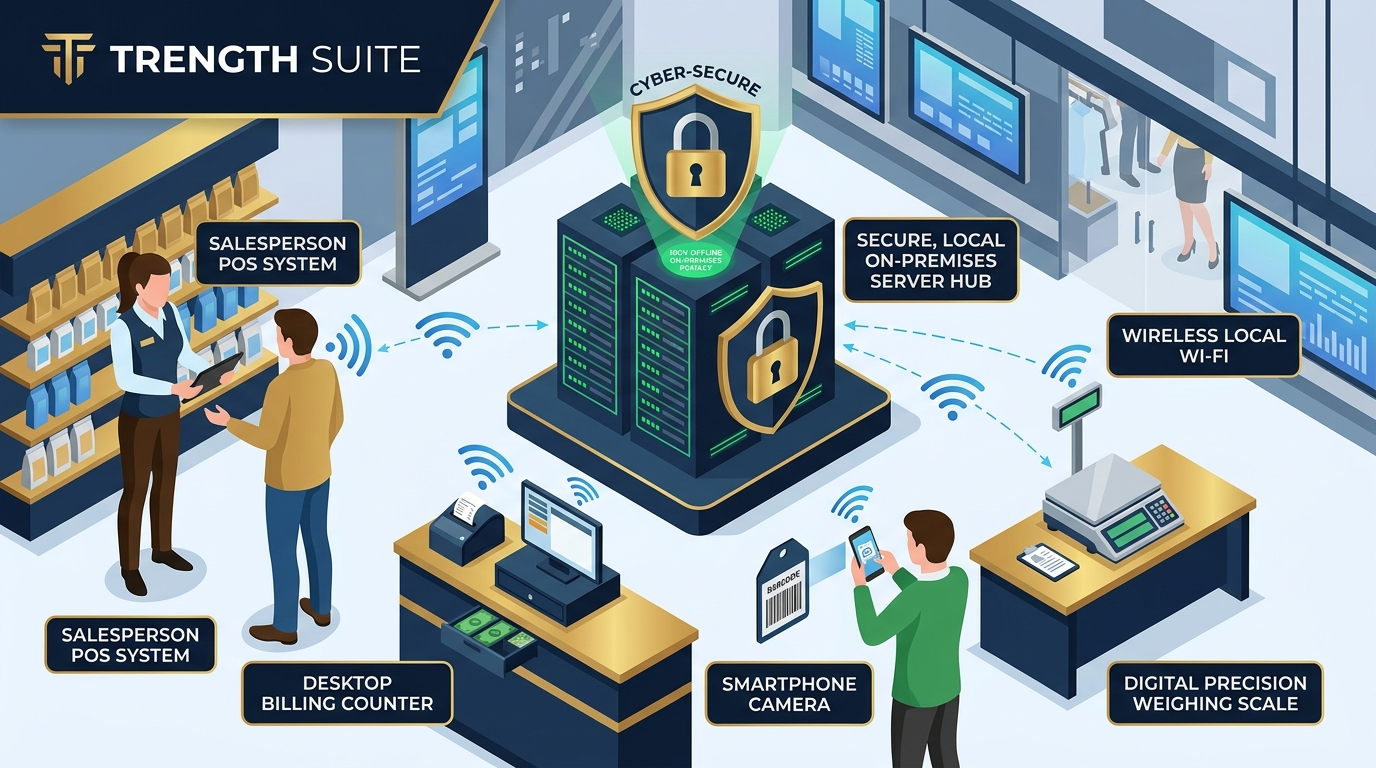
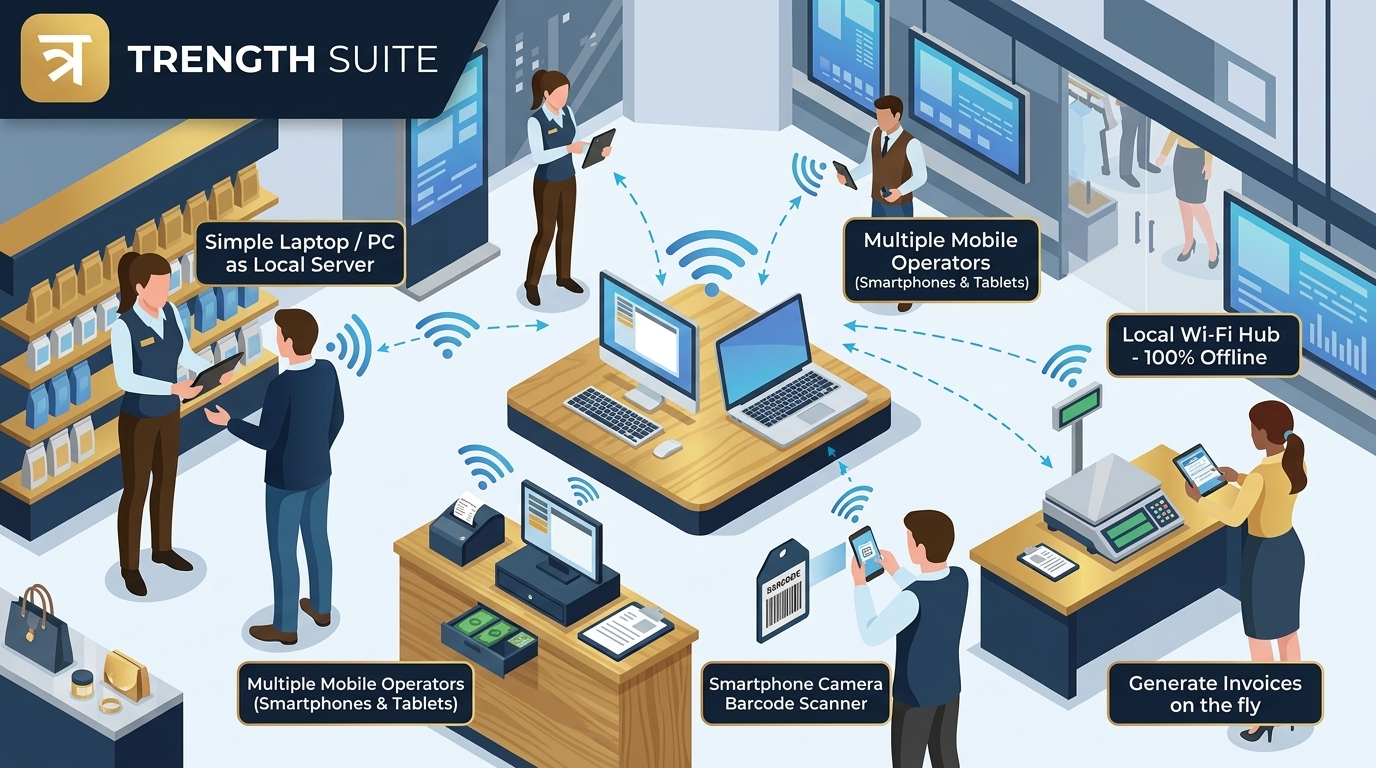
Hello

diff --git a/assets/css/custom.css b/assets/css/custom.css
@@ -1,0 +1,118 @@
+/* ==========================================================================
+   Trength Suite Documentation - Custom Typography & Mobile Enhancements
+   ========================================================================== */
+
+/* Crisp font smoothing */
+body {
+    -webkit-font-smoothing: antialiased;
+    -moz-osx-font-smoothing: grayscale;
+    text-rendering: optimizeLegibility;
+}
+
+/* Enhanced contrast for body text and descriptions */
+.text-gray-600 {
+    color: #4B5675 !important;
+}
+
+.text-gray-700 {
+    color: #252F4A !important;
+}
+
+.text-muted {
+    color: #5E6278 !important;
+}
+
+/* Ensure strong heading contrast */
+h1, h2, h3, h4, h5, h6,
+.text-gray-800, .text-gray-900 {
+    color: #181C32 !important;
+}
+
+/* Mobile Aside Toggle (Hamburger Menu) High Visibility */
+#kt_docs_aside_toggle {
+    color: #181C32 !important;
+    background-color: #F5F8FA;
+    border: 1px solid #E4E6EF;
+    border-radius: 0.475rem;
+    display: inline-flex;
+    align-items: center;
+    justify-content: center;
+    width: 40px;
+    height: 40px;
+}
+
+#kt_docs_aside_toggle .svg-icon {
+    color: #181C32 !important;
+}
+
+#kt_docs_aside_toggle .svg-icon svg path {
+    fill: #181C32 !important;
+    opacity: 1 !important;
+}
+
+/* Aside menu section headings */
+.menu-content.text-muted {
+    color: #5E6278 !important;
+    font-weight: 700 !important;
+    letter-spacing: 0.05em;
+}
+
+/* Menu links high contrast */
+.menu-state-title-primary .menu-item .menu-link .menu-title {
+    color: #252F4A;
+    font-weight: 500;
+}
+
+.menu-state-title-primary .menu-item .menu-link.active .menu-title {
+    color: #009EF7 !important;
+    font-weight: 600;
+}
+
+/* Improved contrast for badges */
+.badge.badge-light-primary {
+    color: #0077B6 !important;
+    background-color: #EBF8FF !important;
+    font-weight: 700 !important;
+}
+
+.badge.badge-light-success {
+    color: #1B8A5A !important;
+    background-color: #E8F8F0 !important;
+    font-weight: 700 !important;
+}
+
+.badge.badge-light-warning {
+    color: #C05621 !important;
+    background-color: #FEF7ED !important;
+    font-weight: 700 !important;
+}
+
+.badge.badge-light-danger {
+    color: #C53030 !important;
+    background-color: #FFF5F5 !important;
+    font-weight: 700 !important;
+}
+
+.badge.badge-light-info {
+    color: #007E8A !important;
+    background-color: #E6F7FA !important;
+    font-weight: 700 !important;
+}
+
+.badge.badge-light-dark {
+    color: #181C32 !important;
+    background-color: #F1F1F4 !important;
+    font-weight: 700 !important;
+}
+
+/* Mobile responsive adjustments */
+@media (max-width: 991.98px) {
+    .docs-aside {
+        background-color: #FFFFFF !important;
+        box-shadow: 0 0 50px 0 rgba(24, 28, 50, 0.15);
+    }
+    
+    .card .card-body {
+        padding: 1.25rem;
+    }
+}

diff --git a/index.html b/index.html
@@ -4,10 +4,11 @@
     <!-- <base href="../"> -->
     <title>Trength™ Suite | Retail ERP &amp; POS Documentation</title>
     <meta charset="utf-8" />
+    <meta name="viewport" content="width=device-width, initial-scale=1" />
     <meta name="description" content="Official documentation for Trength Suite - High-speed enterprise retail ERP and POS solutions for Jewellery, Mobile, Clothing, and Electronics retail businesses." />
     <link rel="shortcut icon" href="assets/media/logos/favicon.ico" />
     <!--begin::Fonts-->
-    <link rel="stylesheet" href="https://fonts.googleapis.com/css?family=Poppins:300,400,500,600,700" />
+    <link rel="stylesheet" href="https://fonts.googleapis.com/css2?family=Poppins:wght@300;400;500;600;700&display=swap" />
     <!--end::Fonts-->
     <!--begin::Page Vendor Stylesheets(used by this page)-->
     <link href="assets/plugins/custom/prismjs/prismjs.bundle.css" rel="stylesheet" type="text/css" />
@@ -15,6 +16,7 @@
     <!--begin::Global Stylesheets Bundle(used by all pages)-->
     <link href="assets/plugins/global/plugins.bundle.css" rel="stylesheet" type="text/css" />
     <link href="assets/css/style.bundle.css" rel="stylesheet" type="text/css" />
+    <link href="assets/css/custom.css" rel="stylesheet" type="text/css" />
     <!--end::Global Stylesheets Bundle-->
 </head>
 <!--end::Head-->

diff --git a/CommandCentre.html b/CommandCentre.html
@@ -5,9 +5,10 @@
     <!-- <base href="../"> -->
     <title>Trength | Documentation</title>
     <meta charset="utf-8" />
+    <meta name="viewport" content="width=device-width, initial-scale=1" />
     <link rel="shortcut icon" href="assets/media/logos/favicon.ico" />
     <!--begin::Fonts-->
-    <link rel="stylesheet" href="https://fonts.googleapis.com/css?family=Poppins:300,400,500,600,700" />
+    <link rel="stylesheet" href="https://fonts.googleapis.com/css2?family=Poppins:wght@300;400;500;600;700&display=swap" />
     <!--end::Fonts-->
     <!--begin::Page Vendor Stylesheets(used by this page)-->
     <link href="assets/plugins/custom/prismjs/prismjs.bundle.css" rel="stylesheet" type="text/css" />
@@ -15,6 +16,7 @@
     <!--begin::Global Stylesheets Bundle(used by all pages)-->
     <link href="assets/plugins/global/plugins.bundle.css" rel="stylesheet" type="text/css" />
     <link href="assets/css/style.bundle.css" rel="stylesheet" type="text/css" />
+    <link href="assets/css/custom.css" rel="stylesheet" type="text/css" />
     <!--end::Global Stylesheets Bundle-->
 </head>
 <!--end::Head-->

diff --git a/InstallationGuide.html b/InstallationGuide.html
@@ -5,9 +5,10 @@
     <!-- <base href="../"> -->
     <title>Trength | Documentation</title>
     <meta charset="utf-8" />
+    <meta name="viewport" content="width=device-width, initial-scale=1" />
     <link rel="shortcut icon" href="assets/media/logos/favicon.ico" />
     <!--begin::Fonts-->
-    <link rel="stylesheet" href="https://fonts.googleapis.com/css?family=Poppins:300,400,500,600,700" />
+    <link rel="stylesheet" href="https://fonts.googleapis.com/css2?family=Poppins:wght@300;400;500;600;700&display=swap" />
     <!--end::Fonts-->
     <!--begin::Page Vendor Stylesheets(used by this page)-->
     <link href="assets/plugins/custom/prismjs/prismjs.bundle.css" rel="stylesheet" type="text/css" />
@@ -15,6 +16,7 @@
     <!--begin::Global Stylesheets Bundle(used by all pages)-->
     <link href="assets/plugins/global/plugins.bundle.css" rel="stylesheet" type="text/css" />
     <link href="assets/css/style.bundle.css" rel="stylesheet" type="text/css" />
+    <link href="assets/css/custom.css" rel="stylesheet" type="text/css" />
     <!--end::Global Stylesheets Bundle-->
 </head>
 <!--end::Head-->

diff --git a/Troubleshoot.html b/Troubleshoot.html
@@ -3,9 +3,10 @@
 <head>
     <title>Trength | Documentation - Troubleshoot</title>
     <meta charset="utf-8" />
+    <meta name="viewport" content="width=device-width, initial-scale=1" />
     <link rel="shortcut icon" href="assets/media/logos/favicon.ico" />
     <!--begin::Fonts-->
-    <link rel="stylesheet" href="https://fonts.googleapis.com/css?family=Poppins:300,400,500,600,700" />
+    <link rel="stylesheet" href="https://fonts.googleapis.com/css2?family=Poppins:wght@300;400;500;600;700&display=swap" />
     <!--end::Fonts-->
     <!--begin::Page Vendor Stylesheets(used by this page)-->
     <link href="assets/plugins/custom/prismjs/prismjs.bundle.css" rel="stylesheet" type="text/css" />
@@ -13,6 +14,7 @@
     <!--begin::Global Stylesheets Bundle(used by all pages)-->
     <link href="assets/plugins/global/plugins.bundle.css" rel="stylesheet" type="text/css" />
     <link href="assets/css/style.bundle.css" rel="stylesheet" type="text/css" />
+    <link href="assets/css/custom.css" rel="stylesheet" type="text/css" />
     <!--end::Global Stylesheets Bundle-->
 </head>
 <!--end::Head-->
